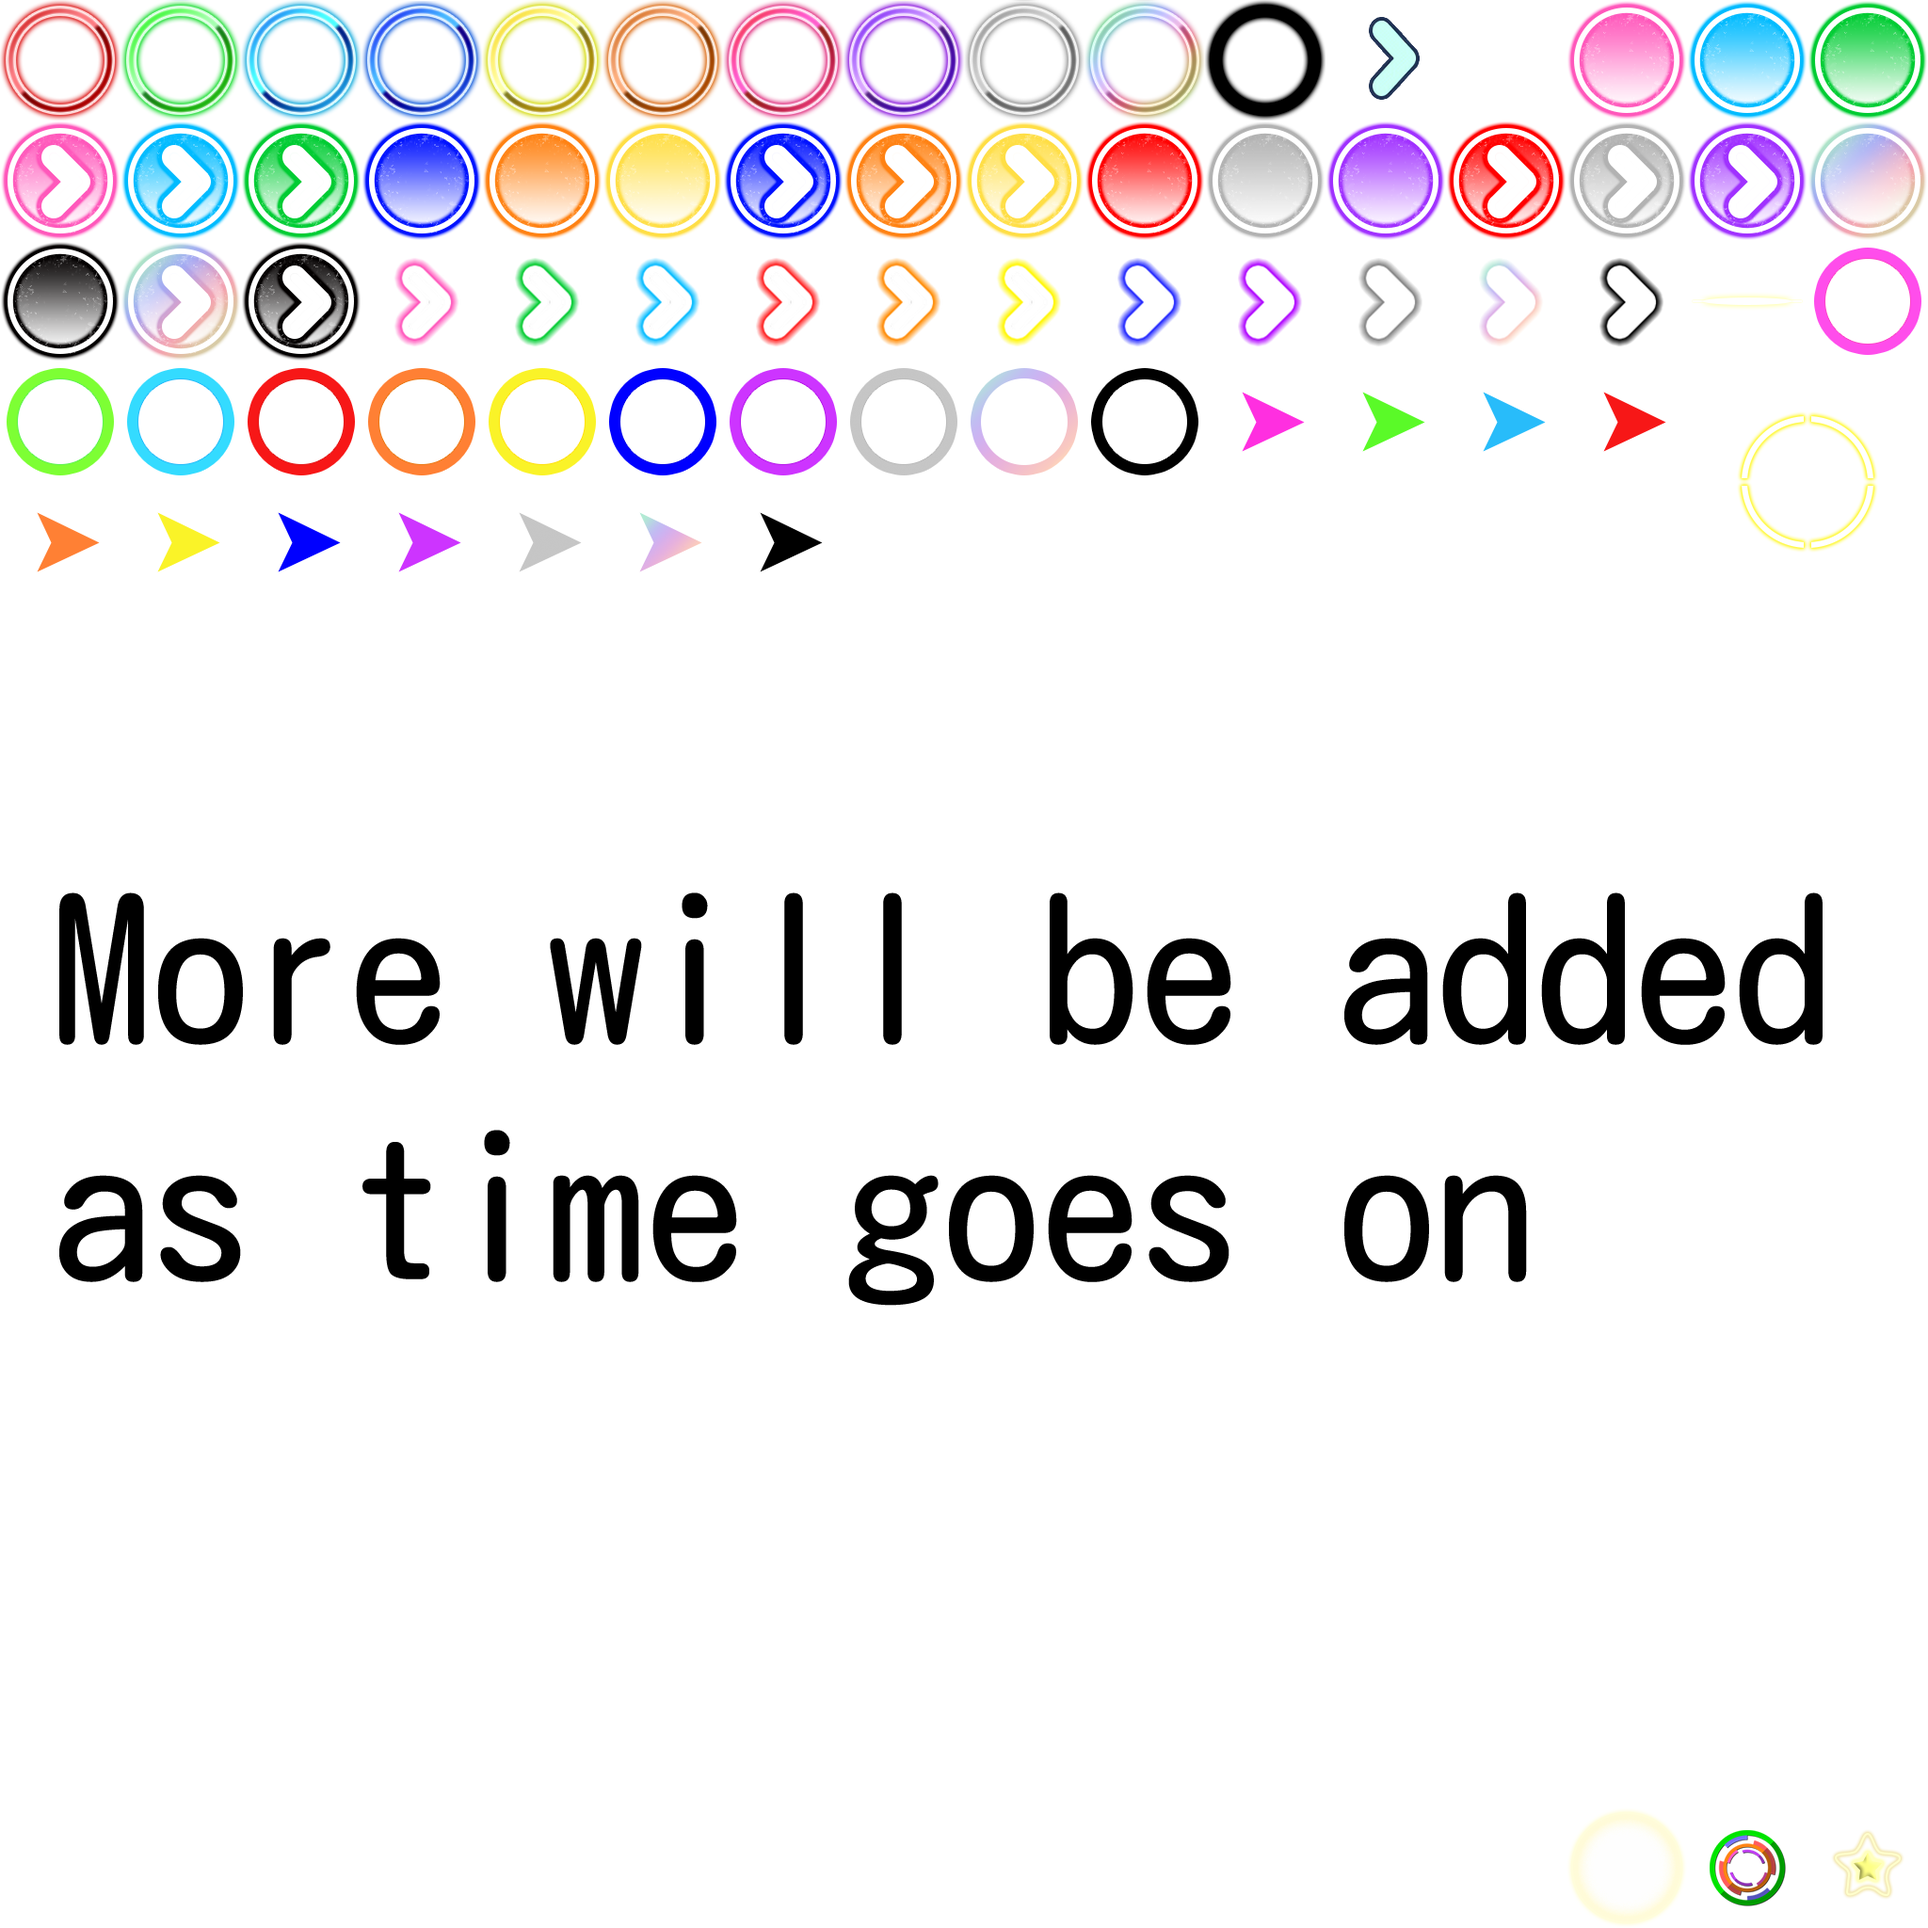
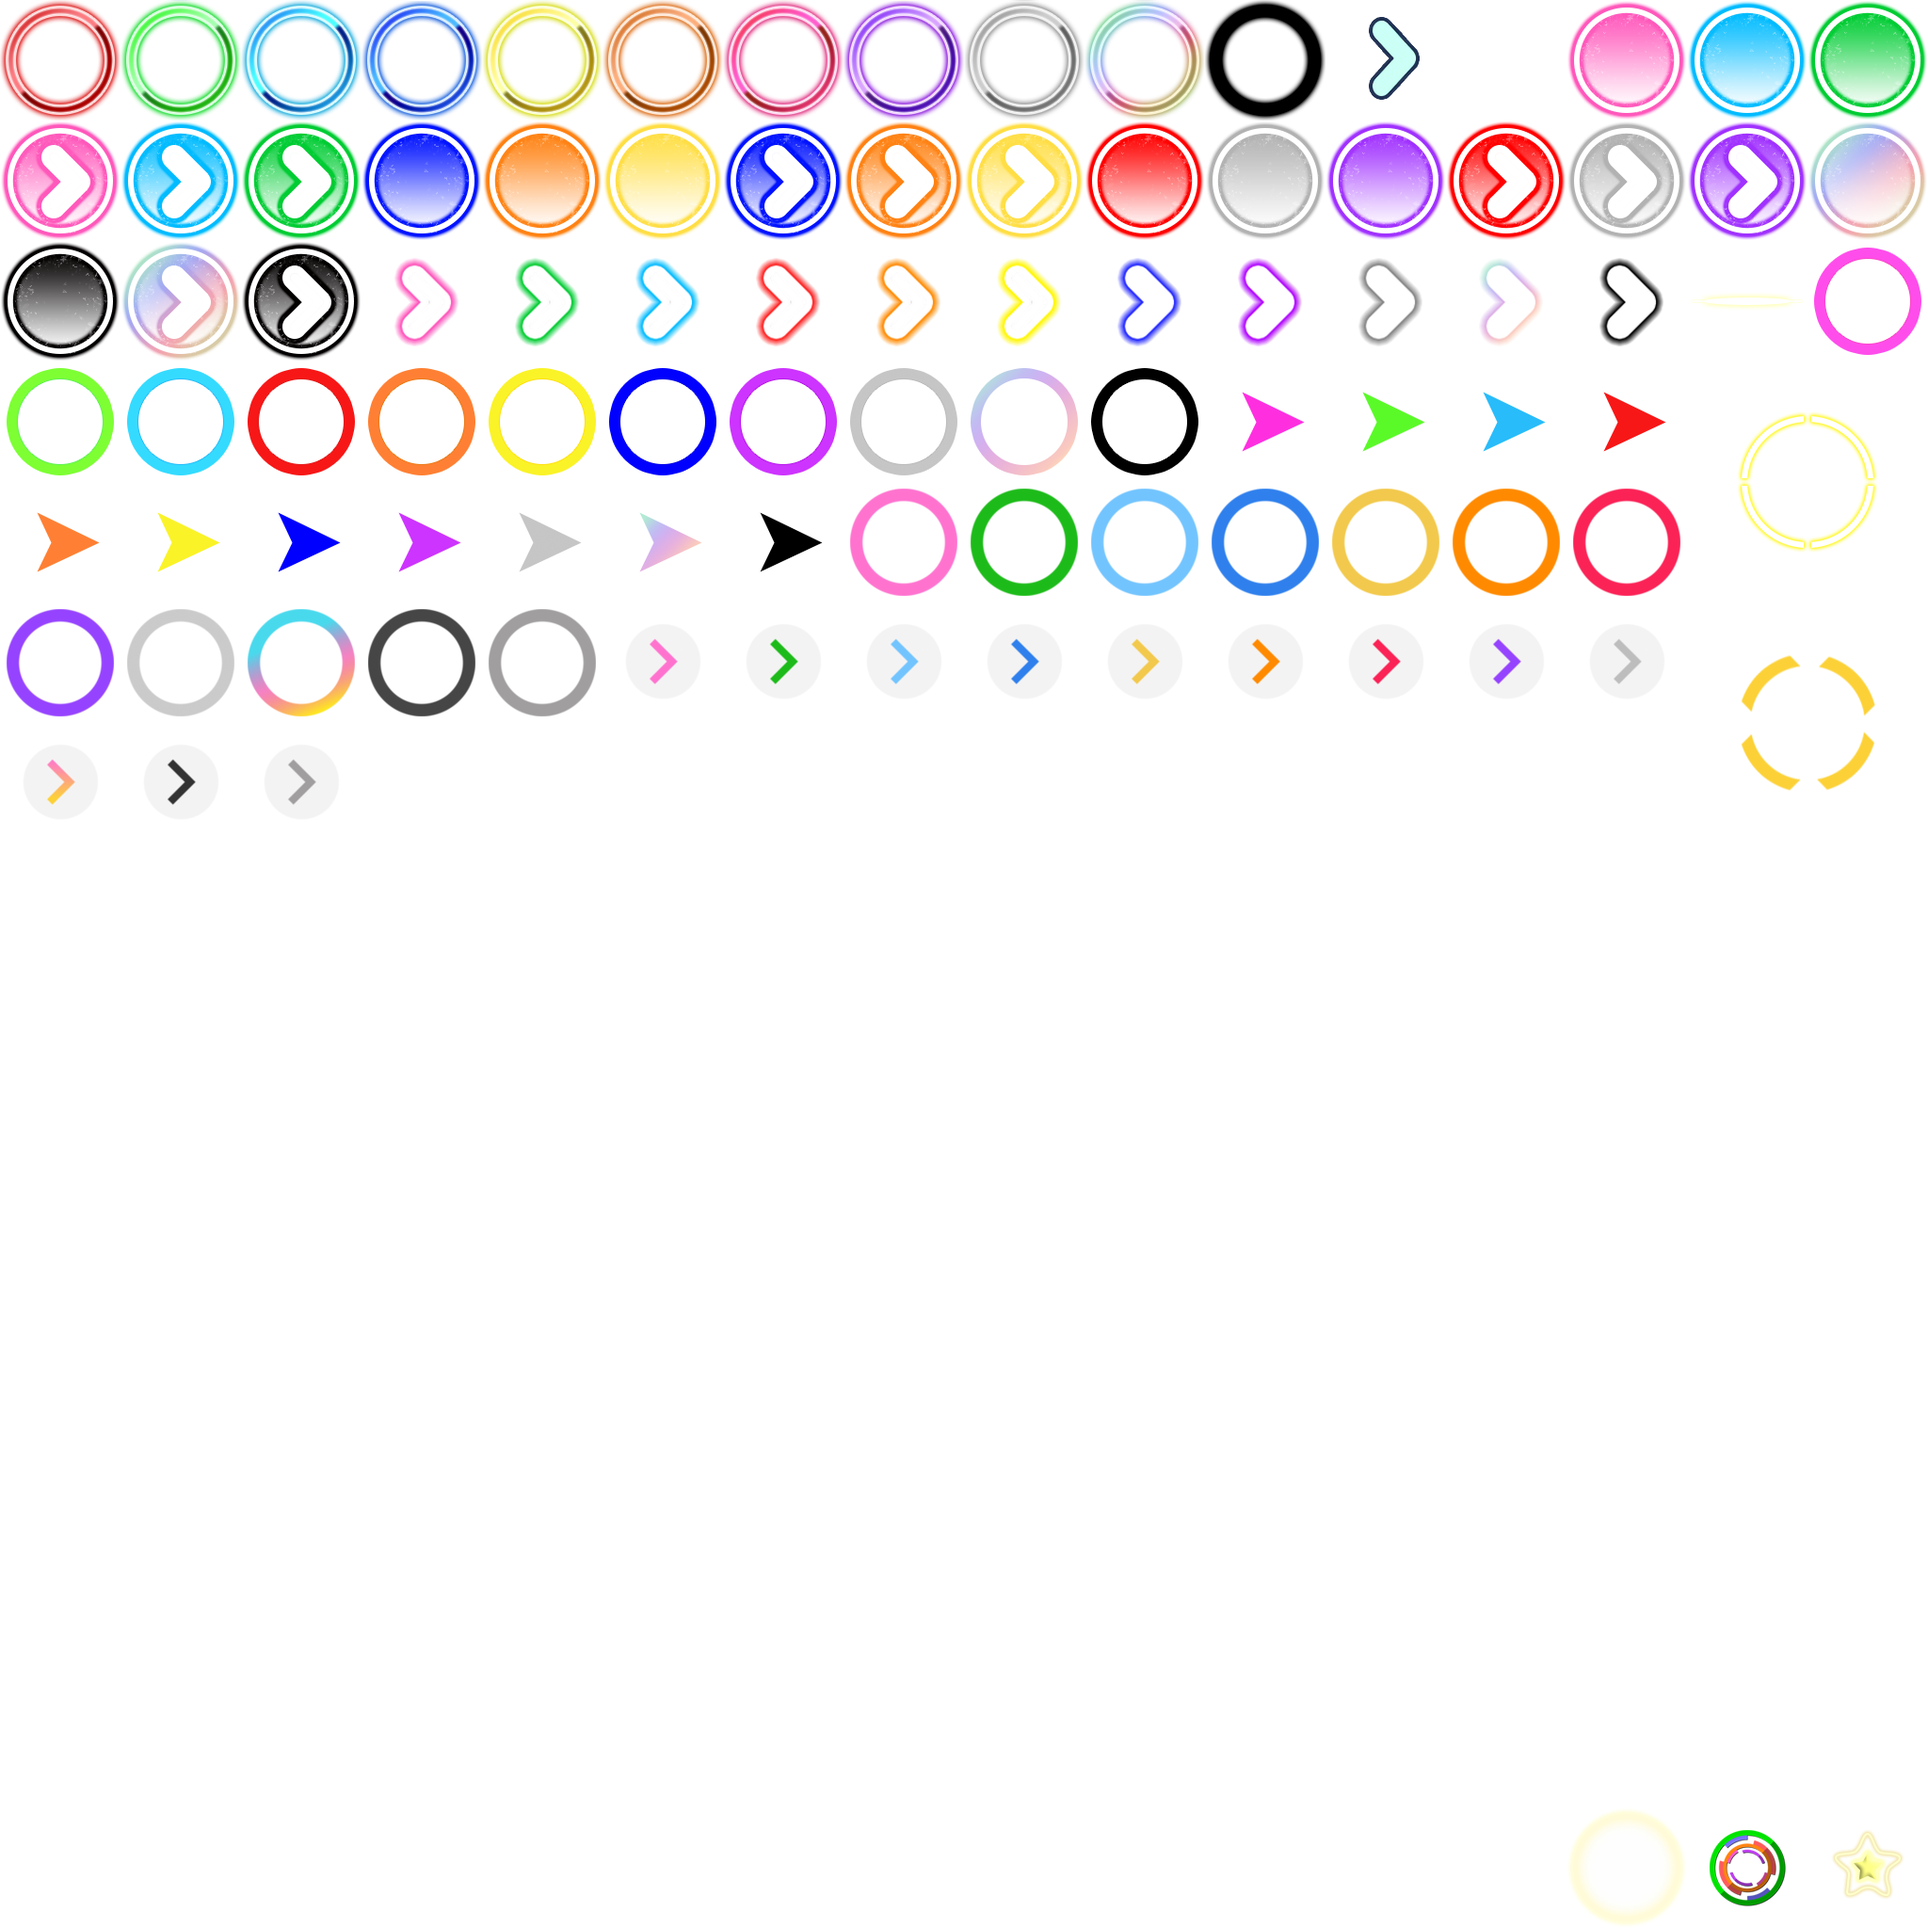
Lovewing note style.

diff --git a/assets/image/tap_circle/README.md b/assets/image/tap_circle/README.md
@@ -1,10 +1,12 @@
 Note Icons
 ==========
 
-All note icons is designed by [ゆゆ](https://twitter.com/yuyu0127_).
+Note list and authors:
 
-* default - Default note icon style (pre-v5)
+* default - Default note icon style (pre-v5) - [ゆゆ](https://twitter.com/yuyu0127_)
 
-* neon - New note style (v5)
+* neon - New note style (v5) - [ゆゆ](https://twitter.com/yuyu0127_)
 
-* matte - Flat design note style (v5.6)
+* matte - Flat design note style (v5.6) - [ゆゆ](https://twitter.com/yuyu0127_)
+
+* lovewing - Lovewing note style - [sr229](https://github.com/sr229)
